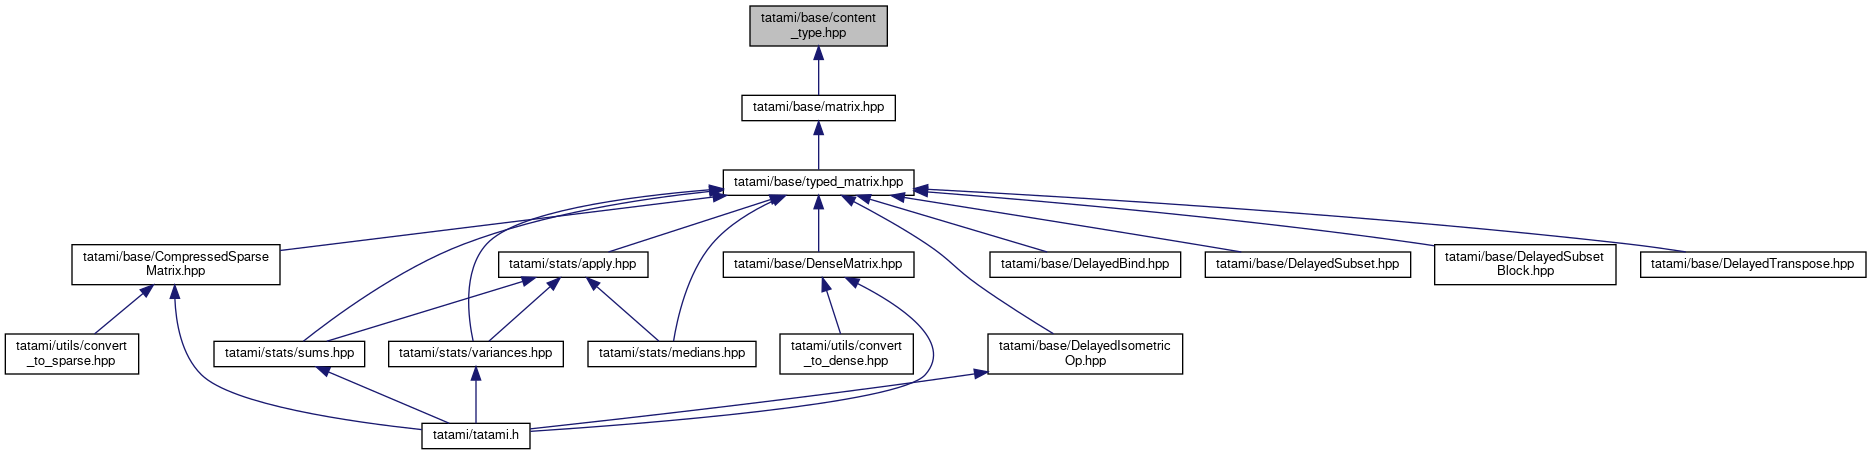
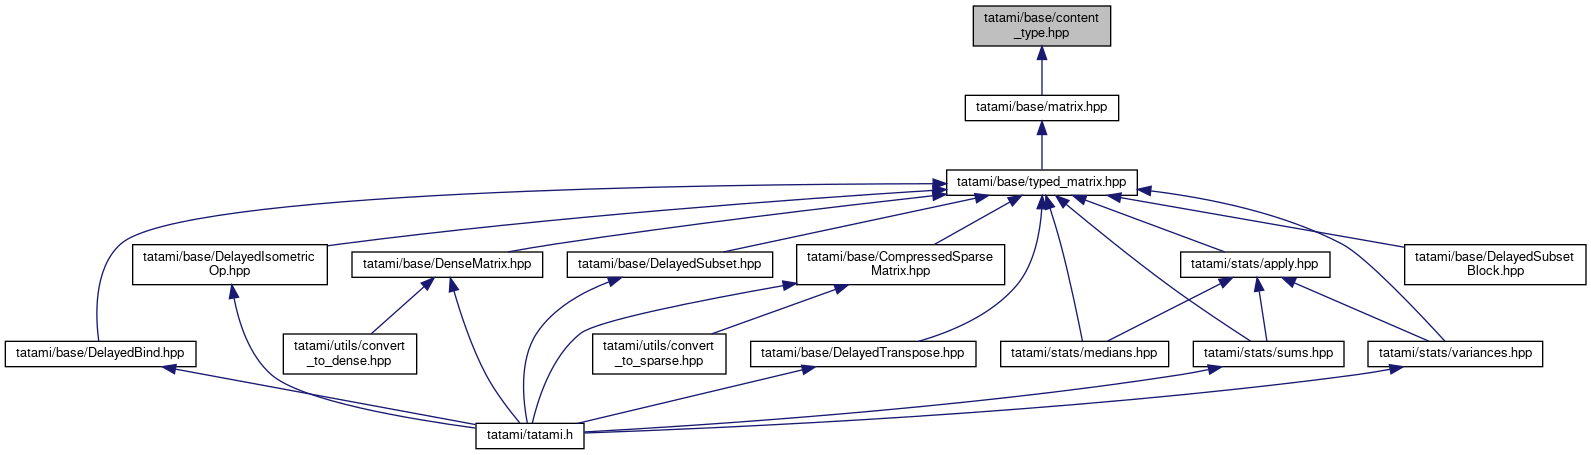
Deploying to gh-pages from @ LTLA/tatami@826c5559a3addfa6d2e267cc0b7077a578a3bf3f 🚀

diff --git a/docs/tatami_8h_source.html b/docs/tatami_8h_source.html
@@ -77,21 +77,26 @@ $(function() {
 <div class="line"><a name="l00004"></a><span class="lineno">    4</span>&#160;<span class="preprocessor">#include &quot;<a class="code" href="DenseMatrix_8hpp.html">base/DenseMatrix.hpp</a>&quot;</span></div>
 <div class="line"><a name="l00005"></a><span class="lineno">    5</span>&#160;<span class="preprocessor">#include &quot;<a class="code" href="CompressedSparseMatrix_8hpp.html">base/CompressedSparseMatrix.hpp</a>&quot;</span></div>
 <div class="line"><a name="l00006"></a><span class="lineno">    6</span>&#160;<span class="preprocessor">#include &quot;<a class="code" href="DelayedIsometricOp_8hpp.html">base/DelayedIsometricOp.hpp</a>&quot;</span></div>
-<div class="line"><a name="l00007"></a><span class="lineno">    7</span>&#160;<span class="preprocessor">#include &quot;base/DelayedSubsetOp.hpp&quot;</span></div>
-<div class="line"><a name="l00008"></a><span class="lineno">    8</span>&#160; </div>
-<div class="line"><a name="l00009"></a><span class="lineno">    9</span>&#160;<span class="preprocessor">#include &quot;base/compress_sparse_triplets.hpp&quot;</span></div>
-<div class="line"><a name="l00010"></a><span class="lineno">   10</span>&#160;<span class="preprocessor">#include &quot;base/simplify_matrix.hpp&quot;</span></div>
-<div class="line"><a name="l00011"></a><span class="lineno">   11</span>&#160; </div>
-<div class="line"><a name="l00012"></a><span class="lineno">   12</span>&#160;<span class="preprocessor">#include &quot;<a class="code" href="sums_8hpp.html">stats/sums.hpp</a>&quot;</span></div>
-<div class="line"><a name="l00013"></a><span class="lineno">   13</span>&#160;<span class="preprocessor">#include &quot;<a class="code" href="variances_8hpp.html">stats/variances.hpp</a>&quot;</span></div>
-<div class="line"><a name="l00014"></a><span class="lineno">   14</span>&#160; </div>
-<div class="line"><a name="l00015"></a><span class="lineno">   15</span>&#160;<span class="preprocessor">#define TATAMI_VERSION_MAJOR 0</span></div>
-<div class="line"><a name="l00016"></a><span class="lineno">   16</span>&#160;<span class="preprocessor">#define TATAMI_VERSION_MINOR 99</span></div>
-<div class="line"><a name="l00017"></a><span class="lineno">   17</span>&#160;<span class="preprocessor">#define TATAMI_VERSION_PATCH 0</span></div>
-<div class="line"><a name="l00018"></a><span class="lineno">   18</span>&#160; </div>
-<div class="line"><a name="l00019"></a><span class="lineno">   19</span>&#160;<span class="preprocessor">#endif</span></div>
+<div class="line"><a name="l00007"></a><span class="lineno">    7</span>&#160;<span class="preprocessor">#include &quot;<a class="code" href="DelayedSubset_8hpp.html">base/DelayedSubset.hpp</a>&quot;</span></div>
+<div class="line"><a name="l00008"></a><span class="lineno">    8</span>&#160;<span class="preprocessor">#include &quot;<a class="code" href="DelayedBind_8hpp.html">base/DelayedBind.hpp</a>&quot;</span></div>
+<div class="line"><a name="l00009"></a><span class="lineno">    9</span>&#160;<span class="preprocessor">#include &quot;<a class="code" href="DelayedTranspose_8hpp.html">base/DelayedTranspose.hpp</a>&quot;</span></div>
+<div class="line"><a name="l00010"></a><span class="lineno">   10</span>&#160; </div>
+<div class="line"><a name="l00011"></a><span class="lineno">   11</span>&#160;<span class="preprocessor">#include &quot;base/compress_sparse_triplets.hpp&quot;</span></div>
+<div class="line"><a name="l00012"></a><span class="lineno">   12</span>&#160;<span class="preprocessor">#include &quot;base/simplify_matrix.hpp&quot;</span></div>
+<div class="line"><a name="l00013"></a><span class="lineno">   13</span>&#160; </div>
+<div class="line"><a name="l00014"></a><span class="lineno">   14</span>&#160;<span class="preprocessor">#include &quot;<a class="code" href="sums_8hpp.html">stats/sums.hpp</a>&quot;</span></div>
+<div class="line"><a name="l00015"></a><span class="lineno">   15</span>&#160;<span class="preprocessor">#include &quot;<a class="code" href="variances_8hpp.html">stats/variances.hpp</a>&quot;</span></div>
+<div class="line"><a name="l00016"></a><span class="lineno">   16</span>&#160; </div>
+<div class="line"><a name="l00017"></a><span class="lineno">   17</span>&#160;<span class="preprocessor">#define TATAMI_VERSION_MAJOR 0</span></div>
+<div class="line"><a name="l00018"></a><span class="lineno">   18</span>&#160;<span class="preprocessor">#define TATAMI_VERSION_MINOR 99</span></div>
+<div class="line"><a name="l00019"></a><span class="lineno">   19</span>&#160;<span class="preprocessor">#define TATAMI_VERSION_PATCH 0</span></div>
+<div class="line"><a name="l00020"></a><span class="lineno">   20</span>&#160; </div>
+<div class="line"><a name="l00021"></a><span class="lineno">   21</span>&#160;<span class="preprocessor">#endif</span></div>
 <div class="ttc" id="aCompressedSparseMatrix_8hpp_html"><div class="ttname"><a href="CompressedSparseMatrix_8hpp.html">CompressedSparseMatrix.hpp</a></div></div>
+<div class="ttc" id="aDelayedBind_8hpp_html"><div class="ttname"><a href="DelayedBind_8hpp.html">DelayedBind.hpp</a></div></div>
 <div class="ttc" id="aDelayedIsometricOp_8hpp_html"><div class="ttname"><a href="DelayedIsometricOp_8hpp.html">DelayedIsometricOp.hpp</a></div></div>
+<div class="ttc" id="aDelayedSubset_8hpp_html"><div class="ttname"><a href="DelayedSubset_8hpp.html">DelayedSubset.hpp</a></div></div>
+<div class="ttc" id="aDelayedTranspose_8hpp_html"><div class="ttname"><a href="DelayedTranspose_8hpp.html">DelayedTranspose.hpp</a></div></div>
 <div class="ttc" id="aDenseMatrix_8hpp_html"><div class="ttname"><a href="DenseMatrix_8hpp.html">DenseMatrix.hpp</a></div></div>
 <div class="ttc" id="asums_8hpp_html"><div class="ttname"><a href="sums_8hpp.html">sums.hpp</a></div></div>
 <div class="ttc" id="avariances_8hpp_html"><div class="ttname"><a href="variances_8hpp.html">variances.hpp</a></div></div>

diff --git a/docs/content__type_8hpp.html b/docs/content__type_8hpp.html
@@ -93,23 +93,23 @@ This graph shows which files directly or indirectly include this file:</div>
 <div class="dyncontent">
 <div class="center"><img src="content__type_8hpp__dep__incl.png" border="0" usemap="#atatami_2base_2content__type_8hppdep" alt=""/></div>
 <map name="atatami_2base_2content__type_8hppdep" id="atatami_2base_2content__type_8hppdep">
-<area shape="rect" title=" " alt="" coords="750,5,887,47"/>
-<area shape="rect" href="matrix_8hpp.html" title=" " alt="" coords="742,95,895,121"/>
-<area shape="rect" href="typed__matrix_8hpp.html" title=" " alt="" coords="723,169,914,196"/>
-<area shape="rect" href="CompressedSparseMatrix_8hpp.html" title=" " alt="" coords="72,244,280,285"/>
-<area shape="rect" href="DelayedBind_8hpp.html" title=" " alt="" coords="990,251,1181,278"/>
-<area shape="rect" href="DelayedIsometricOp_8hpp.html" title=" " alt="" coords="988,333,1183,375"/>
-<area shape="rect" href="DelayedSubset_8hpp.html" title=" " alt="" coords="1205,251,1411,278"/>
-<area shape="rect" href="DelayedSubsetBlock_8hpp.html" title=" " alt="" coords="1435,244,1616,285"/>
-<area shape="rect" href="DelayedTranspose_8hpp.html" title=" " alt="" coords="1641,251,1866,278"/>
-<area shape="rect" href="DenseMatrix_8hpp.html" title=" " alt="" coords="723,251,914,278"/>
-<area shape="rect" href="apply_8hpp_source.html" title=" " alt="" coords="499,251,648,278"/>
-<area shape="rect" href="medians_8hpp.html" title=" " alt="" coords="588,341,756,367"/>
-<area shape="rect" href="sums_8hpp.html" title=" " alt="" coords="214,341,365,367"/>
-<area shape="rect" href="variances_8hpp.html" title=" " alt="" coords="389,341,563,367"/>
-<area shape="rect" href="tatami_8h_source.html" title=" " alt="" coords="422,423,530,449"/>
-<area shape="rect" href="convert__to__sparse_8hpp.html" title=" " alt="" coords="5,333,139,375"/>
-<area shape="rect" href="convert__to__dense_8hpp.html" title=" " alt="" coords="780,333,913,375"/>
+<area shape="rect" title=" " alt="" coords="973,5,1111,47"/>
+<area shape="rect" href="matrix_8hpp.html" title=" " alt="" coords="965,95,1119,121"/>
+<area shape="rect" href="typed__matrix_8hpp.html" title=" " alt="" coords="947,169,1137,196"/>
+<area shape="rect" href="CompressedSparseMatrix_8hpp.html" title=" " alt="" coords="797,244,1005,285"/>
+<area shape="rect" href="DelayedBind_8hpp.html" title=" " alt="" coords="5,341,196,367"/>
+<area shape="rect" href="DelayedIsometricOp_8hpp.html" title=" " alt="" coords="133,244,327,285"/>
+<area shape="rect" href="DelayedSubset_8hpp.html" title=" " alt="" coords="567,251,773,278"/>
+<area shape="rect" href="DelayedSubsetBlock_8hpp.html" title=" " alt="" coords="1405,244,1586,285"/>
+<area shape="rect" href="DelayedTranspose_8hpp.html" title=" " alt="" coords="751,341,976,367"/>
+<area shape="rect" href="DenseMatrix_8hpp.html" title=" " alt="" coords="352,251,543,278"/>
+<area shape="rect" href="apply_8hpp_source.html" title=" " alt="" coords="1181,251,1330,278"/>
+<area shape="rect" href="medians_8hpp.html" title=" " alt="" coords="1001,341,1169,367"/>
+<area shape="rect" href="sums_8hpp.html" title=" " alt="" coords="1193,341,1344,367"/>
+<area shape="rect" href="variances_8hpp.html" title=" " alt="" coords="1368,341,1543,367"/>
+<area shape="rect" href="tatami_8h_source.html" title=" " alt="" coords="476,423,584,449"/>
+<area shape="rect" href="convert__to__sparse_8hpp.html" title=" " alt="" coords="593,333,726,375"/>
+<area shape="rect" href="convert__to__dense_8hpp.html" title=" " alt="" coords="283,333,417,375"/>
 </map>
 </div>
 </div>

diff --git a/docs/workspace_8hpp.html b/docs/workspace_8hpp.html
@@ -88,23 +88,23 @@ This graph shows which files directly or indirectly include this file:</div>
 <div class="dyncontent">
 <div class="center"><img src="workspace_8hpp__dep__incl.png" border="0" usemap="#atatami_2base_2workspace_8hppdep" alt=""/></div>
 <map name="atatami_2base_2workspace_8hppdep" id="atatami_2base_2workspace_8hppdep">
-<area shape="rect" title=" " alt="" coords="728,5,909,32"/>
-<area shape="rect" href="matrix_8hpp.html" title=" " alt="" coords="799,80,953,107"/>
-<area shape="rect" href="typed__matrix_8hpp.html" title=" " alt="" coords="723,155,914,181"/>
-<area shape="rect" href="CompressedSparseMatrix_8hpp.html" title=" " alt="" coords="72,229,280,271"/>
-<area shape="rect" href="DelayedBind_8hpp.html" title=" " alt="" coords="990,237,1181,263"/>
-<area shape="rect" href="DelayedIsometricOp_8hpp.html" title=" " alt="" coords="988,319,1183,360"/>
-<area shape="rect" href="DelayedSubset_8hpp.html" title=" " alt="" coords="1205,237,1411,263"/>
-<area shape="rect" href="DelayedSubsetBlock_8hpp.html" title=" " alt="" coords="1435,229,1616,271"/>
-<area shape="rect" href="DelayedTranspose_8hpp.html" title=" " alt="" coords="1641,237,1866,263"/>
-<area shape="rect" href="DenseMatrix_8hpp.html" title=" " alt="" coords="723,237,914,263"/>
-<area shape="rect" href="apply_8hpp_source.html" title=" " alt="" coords="499,237,648,263"/>
-<area shape="rect" href="medians_8hpp.html" title=" " alt="" coords="588,326,756,353"/>
-<area shape="rect" href="sums_8hpp.html" title=" " alt="" coords="214,326,365,353"/>
-<area shape="rect" href="variances_8hpp.html" title=" " alt="" coords="389,326,563,353"/>
-<area shape="rect" href="tatami_8h_source.html" title=" " alt="" coords="422,408,530,435"/>
-<area shape="rect" href="convert__to__sparse_8hpp.html" title=" " alt="" coords="5,319,139,360"/>
-<area shape="rect" href="convert__to__dense_8hpp.html" title=" " alt="" coords="780,319,913,360"/>
+<area shape="rect" title=" " alt="" coords="951,5,1133,32"/>
+<area shape="rect" href="matrix_8hpp.html" title=" " alt="" coords="1023,80,1176,107"/>
+<area shape="rect" href="typed__matrix_8hpp.html" title=" " alt="" coords="947,155,1137,181"/>
+<area shape="rect" href="CompressedSparseMatrix_8hpp.html" title=" " alt="" coords="797,229,1005,271"/>
+<area shape="rect" href="DelayedBind_8hpp.html" title=" " alt="" coords="5,326,196,353"/>
+<area shape="rect" href="DelayedIsometricOp_8hpp.html" title=" " alt="" coords="133,229,327,271"/>
+<area shape="rect" href="DelayedSubset_8hpp.html" title=" " alt="" coords="567,237,773,263"/>
+<area shape="rect" href="DelayedSubsetBlock_8hpp.html" title=" " alt="" coords="1405,229,1586,271"/>
+<area shape="rect" href="DelayedTranspose_8hpp.html" title=" " alt="" coords="751,326,976,353"/>
+<area shape="rect" href="DenseMatrix_8hpp.html" title=" " alt="" coords="352,237,543,263"/>
+<area shape="rect" href="apply_8hpp_source.html" title=" " alt="" coords="1181,237,1330,263"/>
+<area shape="rect" href="medians_8hpp.html" title=" " alt="" coords="1001,326,1169,353"/>
+<area shape="rect" href="sums_8hpp.html" title=" " alt="" coords="1193,326,1344,353"/>
+<area shape="rect" href="variances_8hpp.html" title=" " alt="" coords="1368,326,1543,353"/>
+<area shape="rect" href="tatami_8h_source.html" title=" " alt="" coords="476,408,584,435"/>
+<area shape="rect" href="convert__to__sparse_8hpp.html" title=" " alt="" coords="593,319,726,360"/>
+<area shape="rect" href="convert__to__dense_8hpp.html" title=" " alt="" coords="283,319,417,360"/>
 </map>
 </div>
 </div>

diff --git a/docs/matrix_8hpp.html b/docs/matrix_8hpp.html
@@ -94,22 +94,22 @@ This graph shows which files directly or indirectly include this file:</div>
 <div class="dyncontent">
 <div class="center"><img src="matrix_8hpp__dep__incl.png" border="0" usemap="#atatami_2base_2matrix_8hppdep" alt=""/></div>
 <map name="atatami_2base_2matrix_8hppdep" id="atatami_2base_2matrix_8hppdep">
-<area shape="rect" title=" " alt="" coords="742,5,895,32"/>
-<area shape="rect" href="typed__matrix_8hpp.html" title=" " alt="" coords="723,80,914,107"/>
-<area shape="rect" href="CompressedSparseMatrix_8hpp.html" title=" " alt="" coords="72,155,280,196"/>
-<area shape="rect" href="DelayedBind_8hpp.html" title=" " alt="" coords="990,162,1181,189"/>
-<area shape="rect" href="DelayedIsometricOp_8hpp.html" title=" " alt="" coords="988,244,1183,285"/>
-<area shape="rect" href="DelayedSubset_8hpp.html" title=" " alt="" coords="1205,162,1411,189"/>
-<area shape="rect" href="DelayedSubsetBlock_8hpp.html" title=" " alt="" coords="1435,155,1616,196"/>
-<area shape="rect" href="DelayedTranspose_8hpp.html" title=" " alt="" coords="1641,162,1866,189"/>
-<area shape="rect" href="DenseMatrix_8hpp.html" title=" " alt="" coords="723,162,914,189"/>
-<area shape="rect" href="apply_8hpp_source.html" title=" " alt="" coords="499,162,648,189"/>
-<area shape="rect" href="medians_8hpp.html" title=" " alt="" coords="588,251,756,278"/>
-<area shape="rect" href="sums_8hpp.html" title=" " alt="" coords="214,251,365,278"/>
-<area shape="rect" href="variances_8hpp.html" title=" " alt="" coords="389,251,563,278"/>
-<area shape="rect" href="tatami_8h_source.html" title=" " alt="" coords="422,333,530,360"/>
-<area shape="rect" href="convert__to__sparse_8hpp.html" title=" " alt="" coords="5,244,139,285"/>
-<area shape="rect" href="convert__to__dense_8hpp.html" title=" " alt="" coords="780,244,913,285"/>
+<area shape="rect" title=" " alt="" coords="971,5,1124,32"/>
+<area shape="rect" href="typed__matrix_8hpp.html" title=" " alt="" coords="952,80,1143,107"/>
+<area shape="rect" href="CompressedSparseMatrix_8hpp.html" title=" " alt="" coords="702,155,910,196"/>
+<area shape="rect" href="DelayedBind_8hpp.html" title=" " alt="" coords="5,251,196,278"/>
+<area shape="rect" href="DelayedIsometricOp_8hpp.html" title=" " alt="" coords="221,244,415,285"/>
+<area shape="rect" href="DelayedSubset_8hpp.html" title=" " alt="" coords="473,162,678,189"/>
+<area shape="rect" href="DelayedSubsetBlock_8hpp.html" title=" " alt="" coords="1509,155,1690,196"/>
+<area shape="rect" href="DelayedTranspose_8hpp.html" title=" " alt="" coords="935,162,1160,189"/>
+<area shape="rect" href="DenseMatrix_8hpp.html" title=" " alt="" coords="257,162,448,189"/>
+<area shape="rect" href="apply_8hpp_source.html" title=" " alt="" coords="1285,162,1434,189"/>
+<area shape="rect" href="medians_8hpp.html" title=" " alt="" coords="1009,251,1177,278"/>
+<area shape="rect" href="sums_8hpp.html" title=" " alt="" coords="1201,251,1352,278"/>
+<area shape="rect" href="variances_8hpp.html" title=" " alt="" coords="1376,251,1551,278"/>
+<area shape="rect" href="tatami_8h_source.html" title=" " alt="" coords="632,333,740,360"/>
+<area shape="rect" href="convert__to__sparse_8hpp.html" title=" " alt="" coords="749,244,882,285"/>
+<area shape="rect" href="convert__to__dense_8hpp.html" title=" " alt="" coords="439,244,573,285"/>
 </map>
 </div>
 </div>

diff --git a/docs/typed__matrix_8hpp.html b/docs/typed__matrix_8hpp.html
@@ -98,21 +98,21 @@ This graph shows which files directly or indirectly include this file:</div>
 <div class="dyncontent">
 <div class="center"><img src="typed__matrix_8hpp__dep__incl.png" border="0" usemap="#atatami_2base_2typed__matrix_8hppdep" alt=""/></div>
 <map name="atatami_2base_2typed__matrix_8hppdep" id="atatami_2base_2typed__matrix_8hppdep">
-<area shape="rect" title=" " alt="" coords="723,5,914,32"/>
-<area shape="rect" href="CompressedSparseMatrix_8hpp.html" title=" " alt="" coords="72,80,280,121"/>
-<area shape="rect" href="DelayedBind_8hpp.html" title=" " alt="" coords="990,87,1181,114"/>
-<area shape="rect" href="DelayedIsometricOp_8hpp.html" title=" " alt="" coords="988,169,1183,211"/>
-<area shape="rect" href="DelayedSubset_8hpp.html" title=" " alt="" coords="1205,87,1411,114"/>
-<area shape="rect" href="DelayedSubsetBlock_8hpp.html" title=" " alt="" coords="1435,80,1616,121"/>
-<area shape="rect" href="DelayedTranspose_8hpp.html" title=" " alt="" coords="1641,87,1866,114"/>
-<area shape="rect" href="DenseMatrix_8hpp.html" title=" " alt="" coords="723,87,914,114"/>
-<area shape="rect" href="apply_8hpp_source.html" title=" " alt="" coords="499,87,648,114"/>
-<area shape="rect" href="medians_8hpp.html" title=" " alt="" coords="588,177,756,203"/>
-<area shape="rect" href="sums_8hpp.html" title=" " alt="" coords="214,177,365,203"/>
-<area shape="rect" href="variances_8hpp.html" title=" " alt="" coords="389,177,563,203"/>
-<area shape="rect" href="tatami_8h_source.html" title=" " alt="" coords="422,259,530,285"/>
-<area shape="rect" href="convert__to__sparse_8hpp.html" title=" " alt="" coords="5,169,139,211"/>
-<area shape="rect" href="convert__to__dense_8hpp.html" title=" " alt="" coords="780,169,913,211"/>
+<area shape="rect" title=" " alt="" coords="952,5,1143,32"/>
+<area shape="rect" href="CompressedSparseMatrix_8hpp.html" title=" " alt="" coords="702,80,910,121"/>
+<area shape="rect" href="DelayedBind_8hpp.html" title=" " alt="" coords="5,177,196,203"/>
+<area shape="rect" href="DelayedIsometricOp_8hpp.html" title=" " alt="" coords="221,169,415,211"/>
+<area shape="rect" href="DelayedSubset_8hpp.html" title=" " alt="" coords="473,87,678,114"/>
+<area shape="rect" href="DelayedSubsetBlock_8hpp.html" title=" " alt="" coords="1509,80,1690,121"/>
+<area shape="rect" href="DelayedTranspose_8hpp.html" title=" " alt="" coords="935,87,1160,114"/>
+<area shape="rect" href="DenseMatrix_8hpp.html" title=" " alt="" coords="257,87,448,114"/>
+<area shape="rect" href="apply_8hpp_source.html" title=" " alt="" coords="1285,87,1434,114"/>
+<area shape="rect" href="medians_8hpp.html" title=" " alt="" coords="1009,177,1177,203"/>
+<area shape="rect" href="sums_8hpp.html" title=" " alt="" coords="1201,177,1352,203"/>
+<area shape="rect" href="variances_8hpp.html" title=" " alt="" coords="1376,177,1551,203"/>
+<area shape="rect" href="tatami_8h_source.html" title=" " alt="" coords="632,259,740,285"/>
+<area shape="rect" href="convert__to__sparse_8hpp.html" title=" " alt="" coords="749,169,882,211"/>
+<area shape="rect" href="convert__to__dense_8hpp.html" title=" " alt="" coords="439,169,573,211"/>
 </map>
 </div>
 </div>

diff --git a/docs/DelayedTranspose_8hpp.html b/docs/DelayedTranspose_8hpp.html
@@ -93,6 +93,15 @@ Include dependency graph for DelayedTranspose.hpp:</div>
 <area shape="rect" title=" " alt="" coords="198,304,253,331"/>
 </map>
 </div>
+</div><div class="textblock"><div class="dynheader">
+This graph shows which files directly or indirectly include this file:</div>
+<div class="dyncontent">
+<div class="center"><img src="DelayedTranspose_8hpp__dep__incl.png" border="0" usemap="#atatami_2base_2DelayedTranspose_8hppdep" alt=""/></div>
+<map name="atatami_2base_2DelayedTranspose_8hppdep" id="atatami_2base_2DelayedTranspose_8hppdep">
+<area shape="rect" title=" " alt="" coords="5,5,231,32"/>
+<area shape="rect" href="tatami_8h_source.html" title=" " alt="" coords="64,80,172,107"/>
+</map>
+</div>
 </div>
 <p><a href="DelayedTranspose_8hpp_source.html">Go to the source code of this file.</a></p>
 <table class="memberdecls">

diff --git a/docs/DelayedSubset_8hpp.html b/docs/DelayedSubset_8hpp.html
@@ -95,6 +95,15 @@ Include dependency graph for DelayedSubset.hpp:</div>
 <area shape="rect" title=" " alt="" coords="198,304,253,331"/>
 </map>
 </div>
+</div><div class="textblock"><div class="dynheader">
+This graph shows which files directly or indirectly include this file:</div>
+<div class="dyncontent">
+<div class="center"><img src="DelayedSubset_8hpp__dep__incl.png" border="0" usemap="#atatami_2base_2DelayedSubset_8hppdep" alt=""/></div>
+<map name="atatami_2base_2DelayedSubset_8hppdep" id="atatami_2base_2DelayedSubset_8hppdep">
+<area shape="rect" title=" " alt="" coords="5,5,211,32"/>
+<area shape="rect" href="tatami_8h_source.html" title=" " alt="" coords="54,80,162,107"/>
+</map>
+</div>
 </div>
 <p><a href="DelayedSubset_8hpp_source.html">Go to the source code of this file.</a></p>
 <table class="memberdecls">

diff --git a/docs/DelayedBind_8hpp.html b/docs/DelayedBind_8hpp.html
@@ -95,6 +95,15 @@ Include dependency graph for DelayedBind.hpp:</div>
 <area shape="rect" title=" " alt="" coords="198,304,253,331"/>
 </map>
 </div>
+</div><div class="textblock"><div class="dynheader">
+This graph shows which files directly or indirectly include this file:</div>
+<div class="dyncontent">
+<div class="center"><img src="DelayedBind_8hpp__dep__incl.png" border="0" usemap="#atatami_2base_2DelayedBind_8hppdep" alt=""/></div>
+<map name="atatami_2base_2DelayedBind_8hppdep" id="atatami_2base_2DelayedBind_8hppdep">
+<area shape="rect" title=" " alt="" coords="5,5,196,32"/>
+<area shape="rect" href="tatami_8h_source.html" title=" " alt="" coords="47,80,155,107"/>
+</map>
+</div>
 </div>
 <p><a href="DelayedBind_8hpp_source.html">Go to the source code of this file.</a></p>
 <table class="memberdecls">
